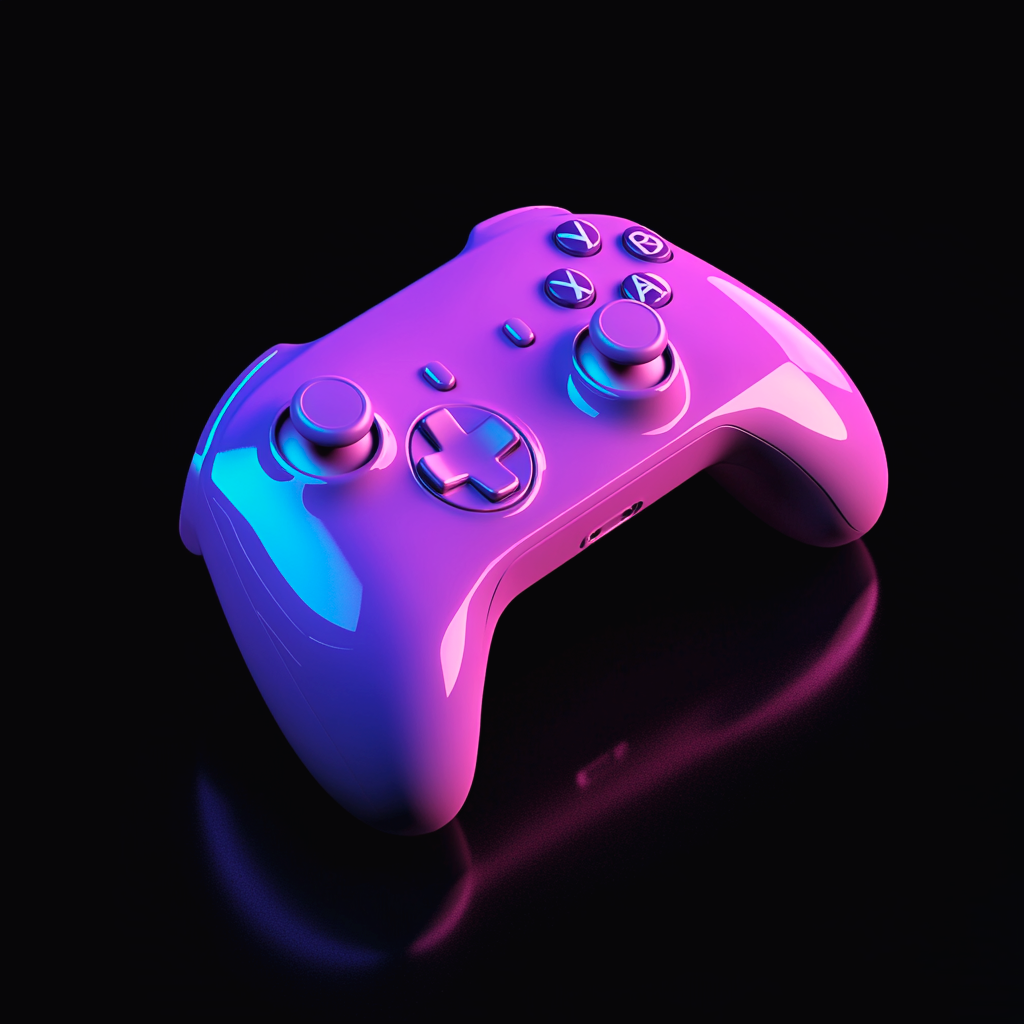
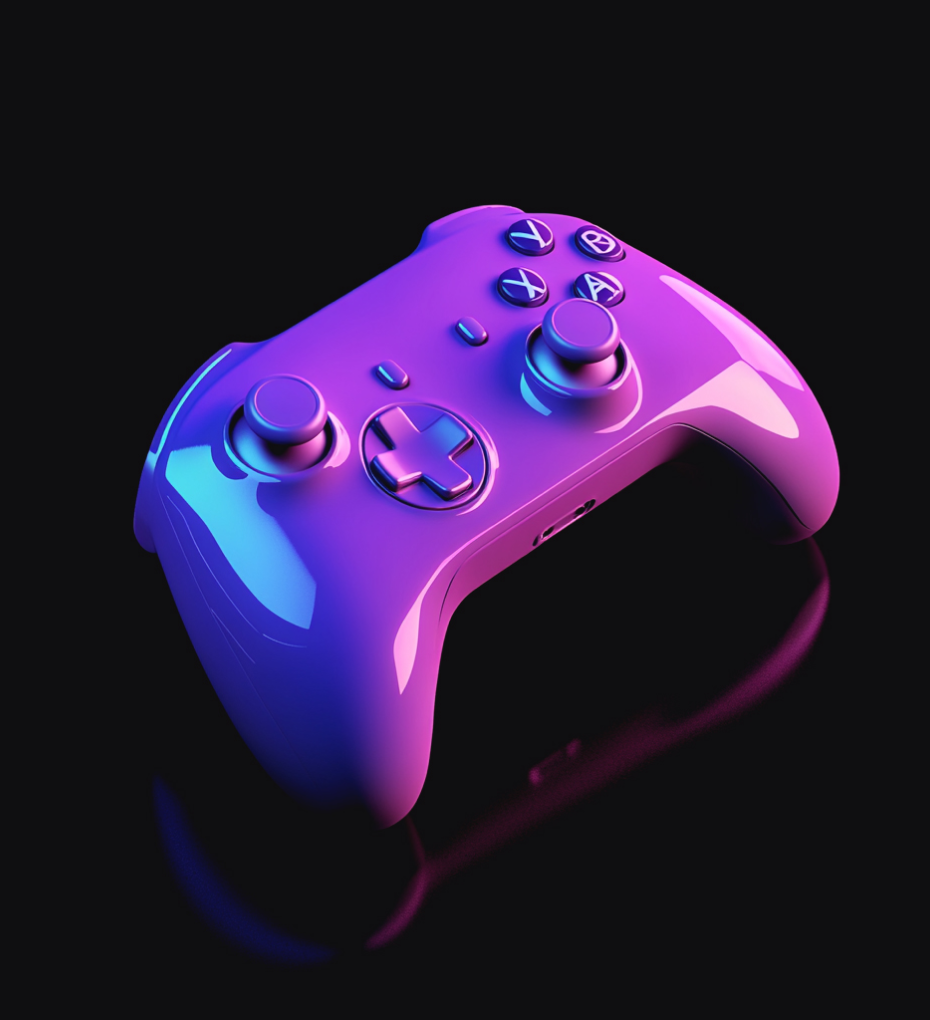
fixed image margins in monetization tools

Changed region(s): [[0.1247, 0.1824, 0.9043, 0.9118], [0.1559, 0.7598, 0.3742, 0.9422], [0.4054, 0.9118, 0.4366, 0.9422]]

diff --git a/src/pages/FeaturesPage/MonetizationTools/MonetizationTools.css b/src/pages/FeaturesPage/MonetizationTools/MonetizationTools.css
@@ -66,20 +66,16 @@
     margin-bottom: 20px;
 }
 
-.monetization-tools-tab img#money-tree {
+.monetization-tools-tab img {
     width: 310px;
     max-height: 340px;
+}
+.monetization-tools-tab img#money-tree {
     margin-left: 157px;
 }
-.monetization-tools-tab img#streamer-coins {
-    width: 288px;
-    max-height: 259px;
-    margin-left: 124px;
-}
+.monetization-tools-tab img#streamer-coins,
 .monetization-tools-tab img#game-controller {
-    width: 328px;
-    max-height: 328px;
-    margin-left: 85px;
+    margin-left: 188px;
 }
 
 @media (max-width: 1012px) {
@@ -88,14 +84,6 @@
     .monetization-tools-tab img#game-controller {
         margin-left: 0;
     }
-    .monetization-tools-tab img#streamer-coins {
-        margin-top: 21px;
-        margin-bottom: 21px;
-    }
-    .monetization-tools-tab img#game-controller {
-        margin-top: -42px;
-    }
-
     .monetization-tools-nav {
         display: none;
     }

diff --git a/src/pages/FeaturesPage/MonetizationTools/MonetizationTools.jsx b/src/pages/FeaturesPage/MonetizationTools/MonetizationTools.jsx
@@ -1,7 +1,7 @@
 import { useState, useRef } from "react";
 import moneyTree from '../../../assets/images/features/money-tree.png'
 import streamerCoins from '../../../assets/images/features/streamer-coins.png'
-import gameController from '../../../assets/images/features/game-controller.jpg'
+import gameController from '../../../assets/images/features/game-controller.png'
 import arrowLeft from '../../../assets/images/features/arrow-left.svg'
 import arrowRight from '../../../assets/images/features/arrow-right.svg'
 import './MonetizationTools.css'
